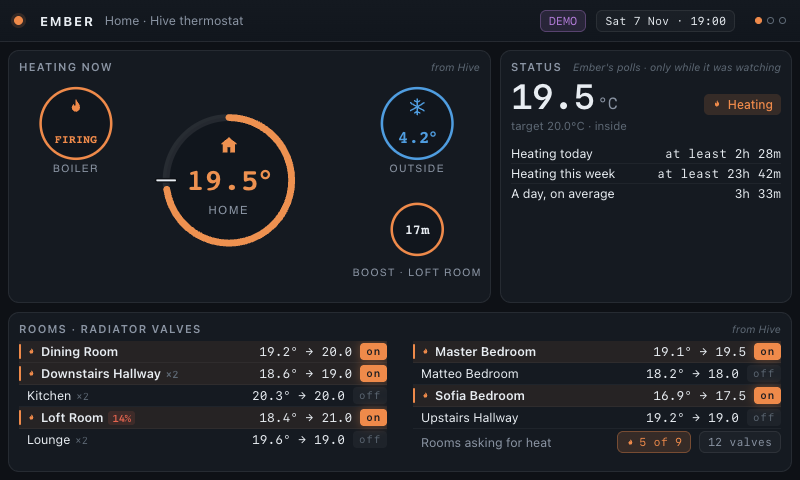
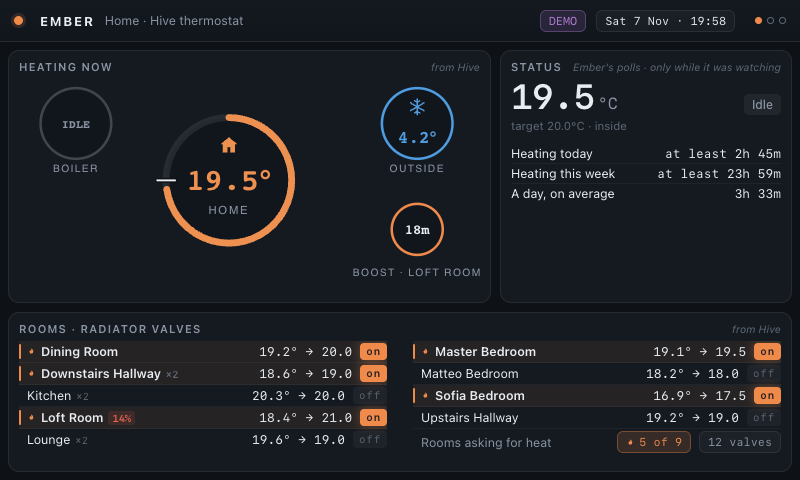
The forecast note has room at the bottom of its tile
The same thing again on the other slide: the TODAY & TOMORROW tile was
exactly as tall as its content, and the forecast note was the last
thing in it, ending on the panel's edge with nothing left for the
descenders. One more line anywhere above it - or one more line in the
week strip underneath, which is what sets the tile's height - and the
note is cut off.

The space came back out of the weather rows and the gaps around them,
and the week strip gave two pixels back too. The note now has sixteen
pixels of room at the bottom of its tile, and a test says so.

diff --git a/ember/web/app.js b/ember/web/app.js
@@ -1329,11 +1329,11 @@ function slideToday(payload) {
   const forecastBody = forecast.available ? `
     <div class="kpi" style="font-size:35px;color:var(--plum)">${num(forecast.tomorrow_m3, 2)}${unit ? `<span class="u">${unit}</span>` : ''}</div>
     <div class="dimmer" style="font-size:11.5px;margin-top:5px">${forecastLine(gas, forecast)}</div>
-    <div class="fnote" style="margin-top:10px">
+    <div class="fnote" style="margin-top:6px">
       ${num(forecast.outside_mean, 1)}°C forecast &middot; ${num(forecast.degree_days, 1)} degree-days at a ${num(forecast.base_temperature, 0)}°C base<br>
       Fitted on ${forecast.model ? forecast.model.days_used : 0} days of your own readings.
     </div>` : `
-    <div class="fnote" style="margin-top:10px">
+    <div class="fnote" style="margin-top:6px">
       Not enough history yet to forecast.<br>
       ${esc(forecast.reason || '')}
     </div>`;
@@ -1380,7 +1380,7 @@ function slideToday(payload) {
       <div class="panel" style="grid-column:1/-1">
         <div class="p-h"><h4>The week</h4>${weekPill}<span class="src">${weekCaption}</span></div>
         <div class="tiles weekstrip" style="grid-template-columns:repeat(7,1fr)">${week}</div>
-        ${weekNote ? `<div class="dimmer" style="font-size:11.5px;margin-top:6px">${weekNote}</div>` : ''}
+        ${weekNote ? `<div class="dimmer" style="font-size:11.5px;margin-top:4px">${weekNote}</div>` : ''}
       </div>
     </div>
   </div>`;

diff --git a/ember/web/app.css b/ember/web/app.css
@@ -300,7 +300,7 @@ html, body {
 .fnote { font-size: 11.5px; color: var(--dim); line-height: 1.5; margin-top: 9px; }
 
 /* The weather, in the shape a phone shows it. */
-.wx { display: flex; flex-direction: column; gap: 10px; margin-top: 4px; }
+.wx { display: flex; flex-direction: column; gap: 8px; margin-top: 0; }
 .wx-row { display: flex; align-items: center; gap: 11px; }
 .wx-ico { color: var(--ice); flex: 0 0 auto; line-height: 0; }
 .wx-ico svg { display: block; }
@@ -318,7 +318,7 @@ html, body {
   font-family: var(--mono); font-size: 20px; font-weight: 600; color: var(--ink);
 }
 .wx-range { font-family: var(--mono); font-size: 11px; color: var(--dim); margin-top: 2px; }
-.wx-sep { height: 1px; background: var(--line); margin: 9px 0 7px; }
+.wx-sep { height: 1px; background: var(--line); margin: 7px 0 6px; }
 .wx-gas-label {
   font-family: var(--mono); font-size: 10.5px; letter-spacing: .14em;
   text-transform: uppercase; color: var(--dimmer); margin-bottom: 2px;

diff --git a/tests/test_layout.py b/tests/test_layout.py
@@ -198,11 +198,74 @@ class LayoutTests(unittest.TestCase):
         case the gas slide has, and the demo - which reports today and
         says its unit in one line - never reaches it.
 
-        This is the panel's own worst case, written out: the cost's
-        explanation has to fit above the unit's note without pushing
-        the unit rate out of sight.
+        This is the panel's own worst case, written out: it has to fit
+        without pushing the unit rate out of sight.
         """
         self.assertEqual(self.check(800, 480, "gas", inject=BEHIND_THE_METER), [])
+
+    def test_the_unit_rate_is_on_the_screen_when_the_meter_is_behind(self):
+        """The row that falls off is the bottom one.
+
+        The rows sit in a box that hides its overflow, so when the
+        panel is full the last row - the unit rate - is the one that
+        disappears. The panel can look perfect from the outside while
+        a number is missing, so the rows are checked one by one.
+        """
+        page = self.browser.new_page(viewport={"width": 800, "height": 480})
+        page.goto(f"http://127.0.0.1:{self.port}/?slide=gas")
+        page.wait_for_timeout(1800)
+        page.evaluate(BEHIND_THE_METER)
+        page.wait_for_timeout(300)
+        rows = page.evaluate(
+            """() => {
+              const box = document.querySelector('.rows');
+              const bounds = box.getBoundingClientRect();
+              return Array.from(box.children).map((row) => {
+                const r = row.getBoundingClientRect();
+                return {
+                  text: row.innerText.replace(/\\s+/g, ' ').trim(),
+                  cut: Math.round(Math.max(r.bottom - bounds.bottom,
+                                           bounds.top - r.top)),
+                };
+              });
+            }""")
+        page.close()
+        self.assertTrue(rows, "no rows in the today tile")
+        cut = [row for row in rows if row["cut"] > 1]
+        self.assertEqual(cut, [], f"cut off in the today tile: {cut}")
+        self.assertTrue(any("Unit rate" in row["text"] for row in rows))
+
+    def test_the_forecast_note_has_room_at_the_bottom_of_its_tile(self):
+        """A line that ends on the edge is one line away from being cut.
+
+        The TODAY & TOMORROW tile is exactly as tall as its content, and
+        the forecast note is the last thing in it - so when the note ends
+        on the panel's edge there is nothing left for the descenders,
+        and one more line anywhere above it cuts the note off.
+
+        The bigger type took this tile's slack away. The space came back
+        out of the weather rows and the gaps around them.
+        """
+        page = self.browser.new_page(viewport={"width": 800, "height": 480})
+        page.goto(f"http://127.0.0.1:{self.port}/?slide=today")
+        page.wait_for_timeout(1800)
+        clearance = page.evaluate(
+            """() => {
+              const label = document.querySelector('.wx-gas-label');
+              if (!label) return null;
+              const panel = label.closest('.panel');
+              const note = panel.querySelector('.fnote');
+              const style = getComputedStyle(panel);
+              const bounds = panel.getBoundingClientRect();
+              const contentBottom = bounds.bottom - 1
+                - (parseFloat(style.paddingBottom) || 0);
+              return Math.round(contentBottom - note.getBoundingClientRect().bottom);
+            }""")
+        page.close()
+        self.assertIsNotNone(clearance, "no forecast on the today slide")
+        self.assertGreaterEqual(
+            clearance, 8,
+            "the forecast note has no room at the bottom of its tile")
 
     def test_the_slide_itself_does_not_scroll(self):
         for slide in ("heating", "gas", "today"):

diff --git a/README.md b/README.md
@@ -283,6 +283,12 @@ and nothing said about a code Ember has not seen. Under it sits tomorrow's
 gas — the plum figure, the cost, the degree-days at the base temperature, and
 the note about how many days the fit is standing on.
 
+That tile is the tightest one on the panel, and it is tight for a reason: the
+week strip underneath it is as tall as it needs to be, so whatever the tile
+above gives away, the tile below takes. The forecast note is the last thing in
+it, and a note that ends exactly on the panel's edge is one line away from
+being cut off. So it has to have room at the bottom, and it does.
+
 **The week** is a strip of days: what each one cost, the gas behind it, and
 the heating hours beside it. Next to the heading is the **week's total** in a
 pill — the sum of the days that have a cost, and nothing else. When any of it
